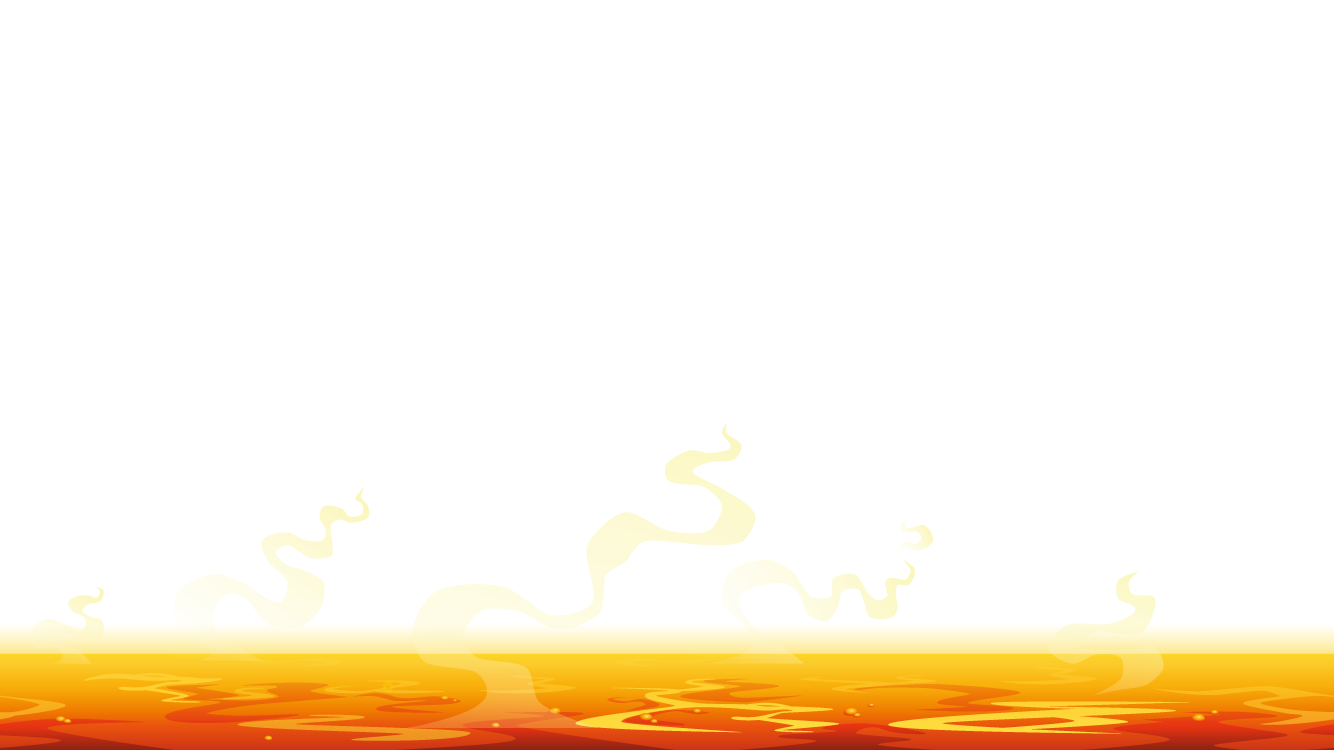
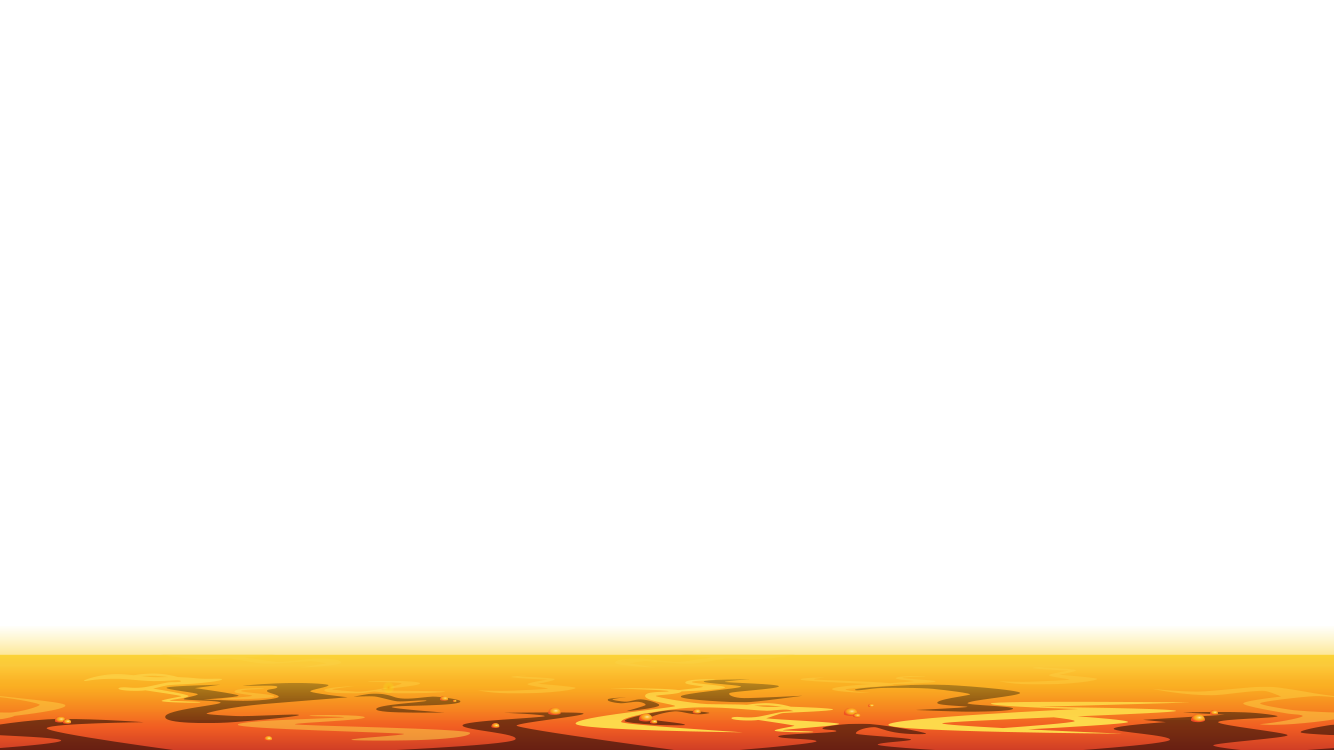
fix: remove fog in the background image and change particle order
#72

diff --git a/src/js/states/Score.js b/src/js/states/Score.js
@@ -17,17 +17,17 @@ export default class extends Phaser.State {
 		// IMAGES
 		this.bg1 = addImage(this, 0, 0, 'background1', this.world.width, this.world.height);
 
-		this.glowingParticles = new Particle('spark', 30, 5000, 100);
-		this.glowingParticles.startEmitter();
-
-		this.steamParticles = new Particle('smoke', 150, 8000, 100);
-		this.steamParticles.startEmitter();
-
 		// Lava Bg
 		// this.bg3 = addImage(this, 0, 0, 'background2', this.world.width, this.world.height);
 
 		this.lavaParticles = new Particle('lava', 0, 4000, 1);
 		this.lavaParticles.startEmitter();
+
+		this.glowingParticles = new Particle('spark', 30, 5000, 100);
+		this.glowingParticles.startEmitter();
+
+		this.steamParticles = new Particle('smoke', 150, 8000, 100);
+		this.steamParticles.startEmitter();
 
 		// Background Frame
 		this.bg4 = addImage(this, 0, 0, 'backgroundCharacterSelection', this.world.width, this.world.height);

diff --git a/src/js/levels/Level1.js b/src/js/levels/Level1.js
@@ -135,15 +135,15 @@ export default class extends Phaser.State {
 
 		// PARTICLES
 
+		this.bg2 = addImage(this, 0, 0, 'background2', this.world.width, this.world.height);
+
 		this.glowingParticles = new Particle('spark', 30, 5000, 100);
 		this.glowingParticles.startEmitter();
 
 		this.steamParticles = new Particle('smoke', 150, 8000, 100);
 		this.steamParticles.startEmitter();
 
-		this.bg2 = addImage(this, 0, 0, 'background2', this.world.width, this.world.height);
-
-		this.lavaParticles = new Particle('lava', 0, 4000, 100);
+		this.lavaParticles = new Particle('lava', 0, 4000, 1);
 		this.lavaParticles.startEmitter();
 
 		// Tiles

diff --git a/src/js/states/CharacterSelection.js b/src/js/states/CharacterSelection.js
@@ -40,13 +40,13 @@ export default class extends Phaser.State {
 
 		// PARTICLES
 
+		this.bg2 = addImage(this, 0, 0, 'background2', this.world.width, this.world.height);
+
 		this.glowingParticles = new Particle('spark', 30, 5000, 100);
 		this.glowingParticles.startEmitter();
 
 		this.steamParticles = new Particle('smoke', 150, 8000, 1);
 		this.steamParticles.startEmitter();
-
-		this.bg2 = addImage(this, 0, 0, 'background2', this.world.width, this.world.height);
 
 		this.lavaParticles = new Particle('lava', 0, 4000, 1);
 		this.lavaParticles.startEmitter();

diff --git a/src/js/states/Waiting.js b/src/js/states/Waiting.js
@@ -25,13 +25,13 @@ export default class extends Phaser.State {
 
 		// PARTICLES
 
+		this.bg2 = addImage(this, 0, 0, 'background2', this.world.width, this.world.height);
+
 		this.glowingParticles = new Particle('spark', 30, 5000, 100);
 		this.glowingParticles.startEmitter();
 
 		this.steamParticles = new Particle('smoke', 150, 8000, 1);
 		this.steamParticles.startEmitter();
-
-		this.bg2 = addImage(this, 0, 0, 'background2', this.world.width, this.world.height);
 
 		this.lavaParticles = new Particle('lava', 0, 4000, 1);
 		this.lavaParticles.startEmitter();
